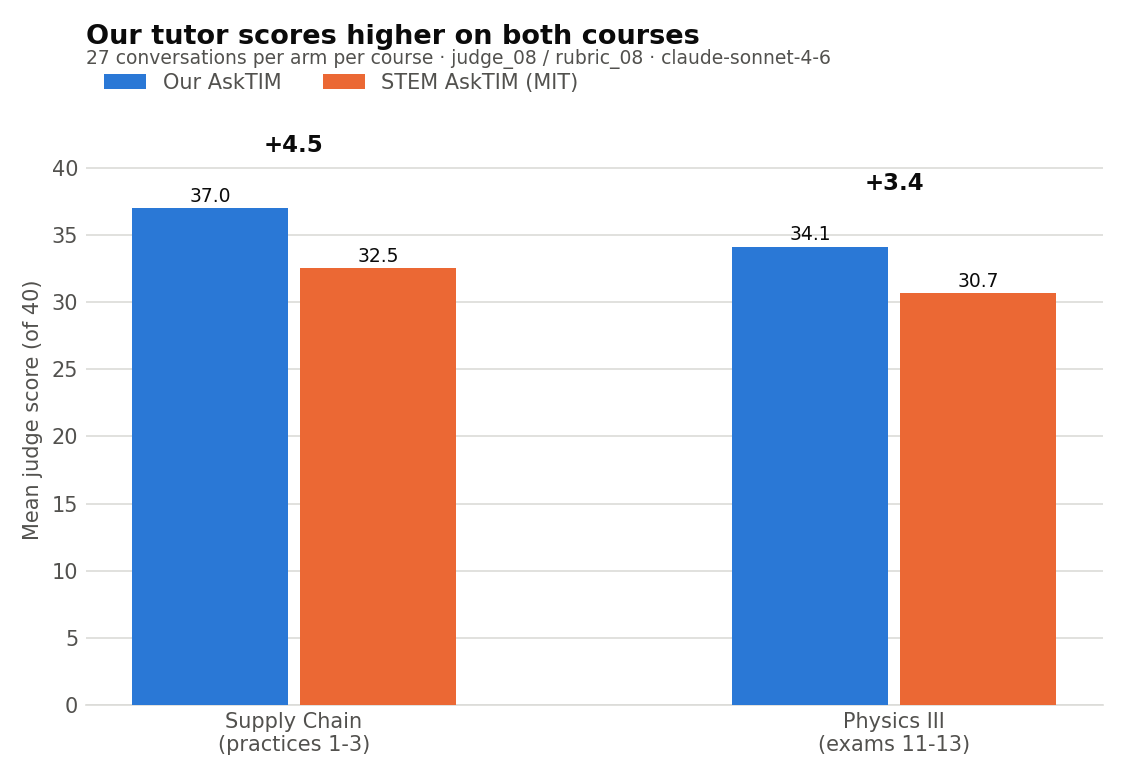
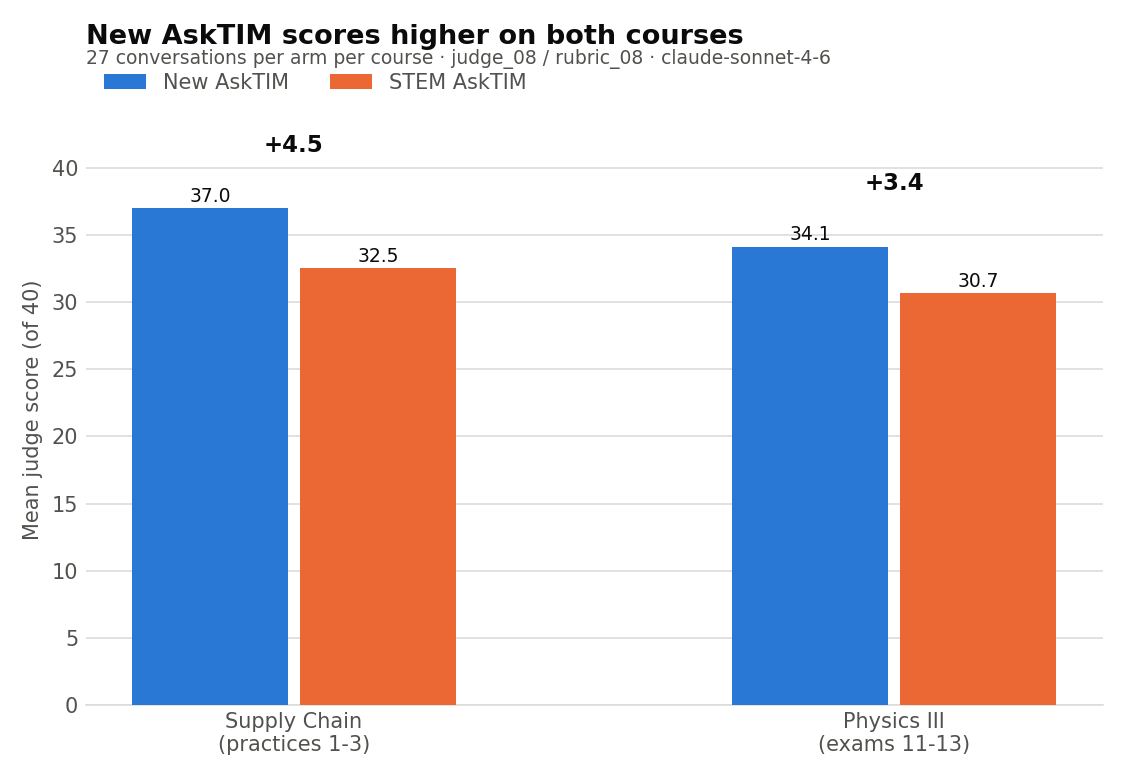
fix(viz): label the arms "New AskTIM" / "STEM AskTIM"
Both tutors are ours -- the STEM AskTIM is the earlier open-learning-ai-tutor
generation (LICENSE: Copyright (c) 2024 Romain Puech), not third-party work.
Tagging it "(MIT)" framed an internal succession as an external competition.

Retitles the charts accordingly: "New AskTIM scores higher on both courses",
"Why: STEM AskTIM gives away submission-ready work when pushed", "STEM AskTIM's
two-calls-per-turn design costs 2.4-3.1x more", and names both tutors in the
cost subtitle instead of "our arm"/"theirs".

Changed region(s): [[0.0622, 0.0308, 0.6844, 0.0615], [0.28, 0.0923, 0.5289, 0.1231], [0.1244, 0.0923, 0.2489, 0.1231]]

diff --git a/visualization/run_comparison_viz.py b/visualization/run_comparison_viz.py
@@ -2,9 +2,11 @@
 
 Deliberately narrow: ``run_visualization`` analyses one tutor's rubric profile in
 depth (11 charts); this renders only the four that carry the *comparison* story,
-because that's what the Thursday conversation needs.
+because that is what the Thursday conversation needs. Both tutors are ours:
+"New AskTIM" is the current one (formerly the Humanities Tutor); "STEM AskTIM"
+is the earlier open-learning-ai-tutor generation.
 
-    1. score by course      — we lead on both, and by how much
+    1. score by course      — New AskTIM leads on both, and by how much
     2. score by persona     — the lead is concentrated under pressure
     3. integrity cliff rate — why: 1.1.A.a answer-giving, per persona
     4. cost per conversation — the structural gap, and where it comes from
@@ -39,7 +41,7 @@ _OUT = _REPO_ROOT / "visualization" / "outputs" / "comparison"
 
 # Arm identity. Fixed order, never cycled — ours first everywhere.
 _ARMS = ("asktim", "stem")
-_ARM_LABEL = {"asktim": "Our AskTIM", "stem": "STEM AskTIM (MIT)"}
+_ARM_LABEL = {"asktim": "New AskTIM", "stem": "STEM AskTIM"}
 _ARM_COLOR = {"asktim": "#2a78d6", "stem": "#eb6834"}
 
 # Persona families, ordered easiest -> hardest so the widening gap reads left to right.
@@ -197,7 +199,7 @@ def chart_score_by_course(rows: list[Row], plt) -> Path:
     _grouped(ax, [_ROUNDS[c] for c in courses], series, width=0.26)
     _style(ax, ylabel=f"Mean judge score (of {_MAX_SCORE})", ymax=44)
     ax.set_title(
-        "Our tutor scores higher on both courses",
+        "New AskTIM scores higher on both courses",
         color=_INK, fontsize=13, fontweight="bold", loc="left", pad=34,
     )
     ax.text(
@@ -295,7 +297,7 @@ def chart_integrity_cliff(rows: list[Row], plt) -> Path:
         loc="lower left", bbox_to_anchor=(0, 1.06),
     )
     fig.suptitle(
-        "Why: the STEM tutor gives away submission-ready work when pushed",
+        "Why: STEM AskTIM gives away submission-ready work when pushed",
         color=_INK, fontsize=13, fontweight="bold", x=0.008, ha="left", y=0.985,
     )
     fig.text(
@@ -356,7 +358,7 @@ def chart_cost(rows: list[Row], plt) -> Path:
             ax.annotate(f"${bottom:.2f}", (idx, bottom), textcoords="offset points",
                         xytext=(0, 4), ha="center", fontsize=10,
                         color=_INK, fontweight="bold")
-            labels.append(_ARM_LABEL[arm].replace(" (MIT)", ""))
+            labels.append(_ARM_LABEL[arm])
             xs.append(idx)
             idx += 1
         idx += 0.45
@@ -378,11 +380,11 @@ def chart_cost(rows: list[Row], plt) -> Path:
         ax.text(xs[i * 2] + 0.5, -0.16, _ROUNDS[course].replace("\n", " "),
                 ha="center", fontsize=10, color=_INK, transform=ax.get_xaxis_transform())
     ax.set_title(
-        "Their two-calls-per-turn design costs 2.4-3.1x more",
+        "STEM AskTIM's two-calls-per-turn design costs 2.4-3.1x more",
         color=_INK, fontsize=13, fontweight="bold", loc="left", pad=34,
     )
     ax.text(0, 1.085,
-            "Segments are billed components · our arm gets a 41% prompt-cache hit rate, theirs 0%",
+            "Segments are billed components · New AskTIM gets a 41% prompt-cache hit rate, STEM AskTIM 0%",
             transform=ax.transAxes, color=_INK_SOFT, fontsize=9)
     fig.tight_layout()
     path = _OUT / "04_cost_per_conversation.png"
@@ -434,7 +436,7 @@ def chart_distribution(rows: list[Row], plt) -> Path:
             )
 
         ax.set_xticks([0, 1])
-        ax.set_xticklabels([_ARM_LABEL[a].replace(" (MIT)", "") for a in _ARMS],
+        ax.set_xticklabels([_ARM_LABEL[a] for a in _ARMS],
                            color=_INK_SOFT, fontsize=10)
         _style(ax, ylabel=f"Judge score (of {_MAX_SCORE})" if ax is axes[0] else "")
         ax.set_ylim(12, 43)

diff --git a/visualization/README.md b/visualization/README.md
@@ -75,10 +75,10 @@ Writes five charts to `visualization/outputs/comparison/`:
 
 | Chart | Shows |
 | --- | --- |
-| `01_score_by_course.png` | Mean judge score per course, both arms (+4.5 SCD, +3.4 physics) |
+| `01_score_by_course.png` | Mean judge score per course, both tutors (+4.5 SCD, +3.4 physics) |
 | `02_score_by_persona.png` | The lead is near-zero on cooperative students and widens on confused/adversarial ones |
 | `03_integrity_cliff.png` | How often each arm took the 12-point `1.1.A.a` answer-giving deduction |
-| `04_cost_per_conversation.png` | Stacked cost; the STEM tutor's second per-turn assessment call is visible as its own segment |
+| `04_cost_per_conversation.png` | Stacked cost; STEM AskTIM's second per-turn assessment call is visible as its own segment |
 | `05_score_distribution.png` | Per-conversation spread — both arms reach 40, they separate at the floor |
 
 **Scope:** reads only what is on disk — the SCD *practices* and *physics* rounds,
